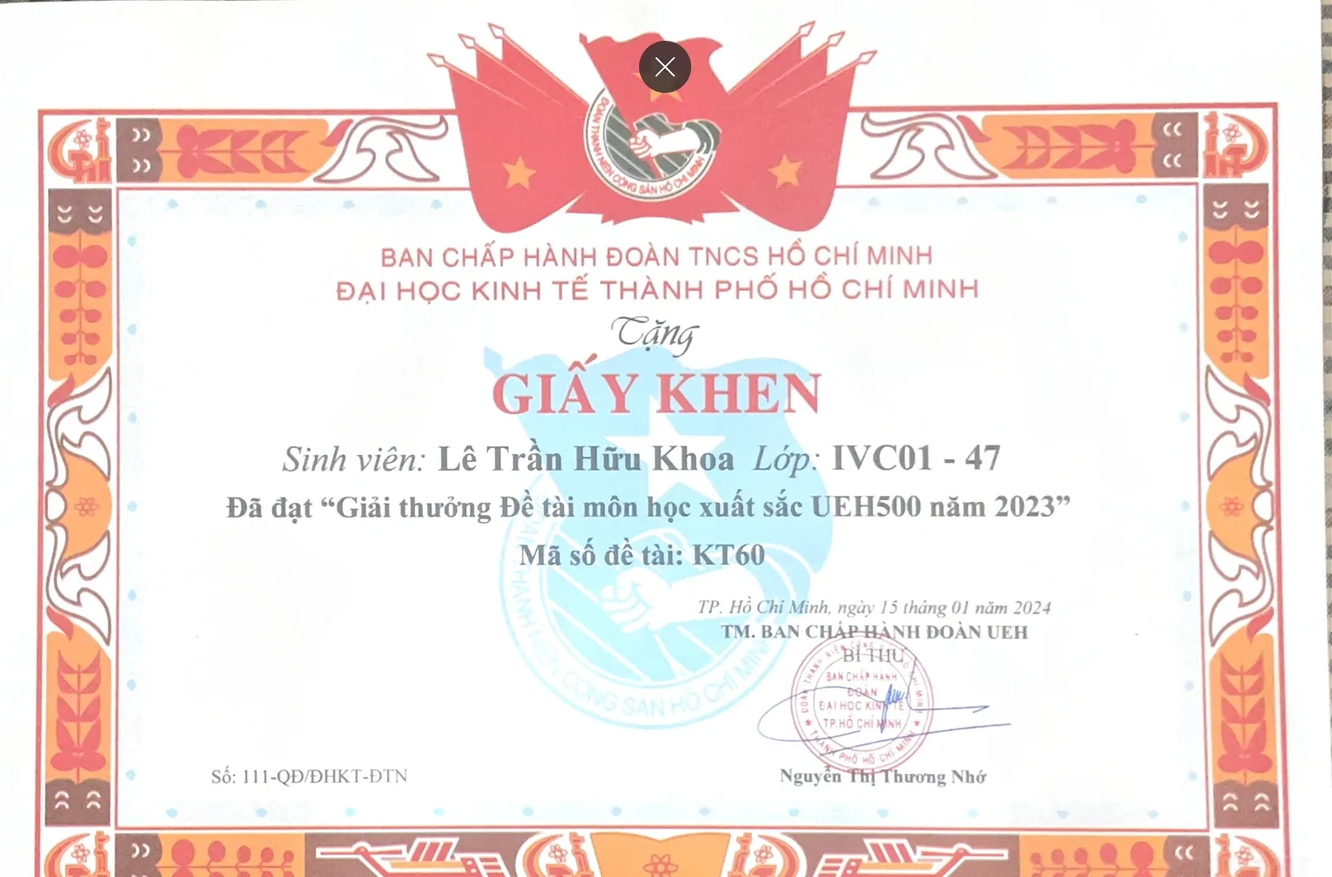
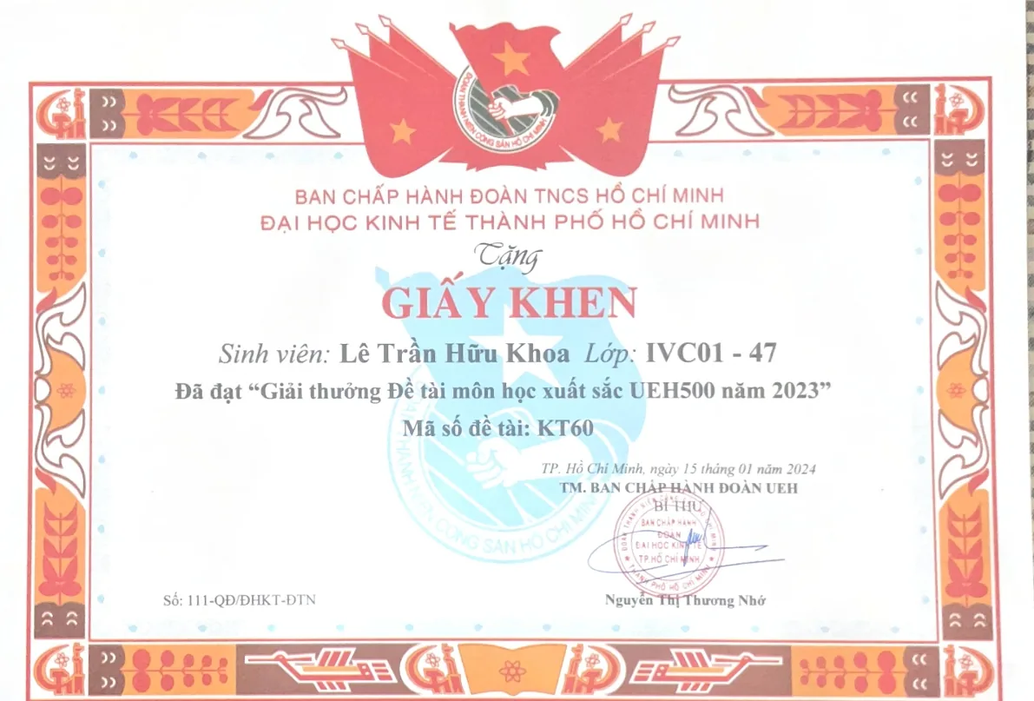
Add STAR details to every project popup
Each popup now has a context paragraph, What I did, Result with key
statistics, and What I gained, drawn from the project reports and UEH
articles. Retitles the Speaking Group Extended and Mini World Cup cards,
and refreshes the web copy of the new UEH500 certificate image.

Claude-Session: https://claude.ai/code/session_01WuN66PrgvGtPMv8t4hChoa

Changed region(s): [[0.0, 0.0, 0.9941, 1.0], [0.9941, 0.0, 1.0, 0.8364], [0.0, 0.0, 0.0311, 0.031]]

diff --git a/index.html b/index.html
@@ -84,6 +84,13 @@
     #project-modal { -webkit-backdrop-filter: blur(6px); backdrop-filter: blur(6px); }
     #pm-body .project-bullets { margin-top: 1.25rem; list-style: disc; padding-left: 1.5rem; color: #f5f5f4; line-height: 1.7; }
     #pm-body .project-bullets li + li { margin-top: .6rem; }
+    #pm-body .project-h { margin-top: 2rem; font-family: Inter, ui-sans-serif, system-ui, sans-serif; font-size: .75rem; font-weight: 600; letter-spacing: .16em; text-transform: uppercase; color: #B9D7C1; }
+    #pm-body .project-h + .project-bullets, #pm-body .project-h + .project-desc, #pm-body .project-h + .project-stats { margin-top: .75rem; }
+    #pm-body .project-stats { display: grid; grid-template-columns: repeat(auto-fit, minmax(150px, 1fr)); gap: .75rem; }
+    #pm-body .project-stats + .project-bullets { margin-top: 1rem; }
+    #pm-body .project-stats div { border-radius: .75rem; background: rgb(255 255 255 / .07); box-shadow: inset 0 0 0 1px rgb(255 255 255 / .14); padding: .9rem 1rem; }
+    #pm-body .project-stats b { display: block; font-family: Fraunces, Georgia, serif; font-size: 1.6rem; font-weight: 500; line-height: 1.15; color: #fff; }
+    #pm-body .project-stats span { display: block; margin-top: .3rem; font-size: .8rem; line-height: 1.4; color: #d6d3d1; }
     #pm-body .project-chips { margin-top: 1.75rem; display: flex; flex-wrap: wrap; gap: .5rem; }
     #pm-body .project-chips li { border-radius: 9999px; padding: .25rem .75rem; font-size: .75rem; font-weight: 500; color: #fff; background: rgb(255 255 255 / .1); box-shadow: inset 0 0 0 1px rgb(255 255 255 / .2); }
     .iv-nav { position: absolute; top: 50%; transform: translateY(-50%); height: 3rem; width: 3rem; border-radius: 9999px; font-size: 2.25rem; line-height: 1; color: #fff; background: rgb(255 255 255 / .12); }
@@ -260,13 +267,15 @@
                 <h4 class="project-card-title">Impact of Digital Literacy on Vietnamese Households' Clean Energy Consumption</h4>
                 <p class="project-card-line">Team study of digital literacy and clean energy use.</p>
                 <template class="project-details">
-                  <p class="project-desc">Presented at the 5th Asia Conference on Business and Economics, organized by the Journal of Asian Business and Economics Studies. I led a five-member team through a six-month empirical study.</p>
-                  <ul class="project-bullets">
-                    <li>Built binary and ratio-based measures from the Vietnam Household Living Standard Survey (2016 and 2018), covering about 9,300 households in all 63 provinces</li>
-                    <li>Logit and panel models found a significant positive association, with clean-energy households showing digital literacy rates 2.5 times higher</li>
-                    <li>Heterogeneity analysis showed a stronger urban effect linked to infrastructure gaps, leading to policy recommendations on digital infrastructure and digital literacy in education</li>
-                  </ul>
-                  <ul class="project-chips"><li>Stata</li><li>Logit</li><li>Panel data</li><li>Policy recommendations</li></ul>
+                  <p class="project-desc">Internet access in Vietnam has spread quickly, yet there was little household level evidence on whether being digitally literate changes the way families use energy. As lead author of a five-member team, I steered a six-month empirical study to measure that link, and the paper was selected from hundreds of submissions for presentation at ACBES 2023, the 5th Asia Conference on Business and Economic Studies hosted by UEH and the Journal of Asian Business and Economic Studies.</p>
+                  <h5 class="project-h">What I did</h5>
+                  <ul class="project-bullets"><li>Led the team from research design to the final paper, setting the timeline and dividing the literature, data and writing work</li><li>Built binary and ratio-based measures of digital literacy and clean energy use from the Vietnam Household Living Standard Survey (VHLSS) 2016 and 2018</li><li>Estimated logit and panel models in Stata, then ran heterogeneity analysis across urban and rural households and across income groups</li></ul>
+                  <h5 class="project-h">Result</h5>
+                  <div class="project-stats"><div><b>9,300</b><span>households analyzed</span></div><div><b>63</b><span>provinces covered</span></div><div><b>2.5×</b><span>higher digital literacy in clean energy households</span></div></div>
+                  <ul class="project-bullets"><li>Digital literacy was significantly and positively associated with clean energy use, and the effect held in both high and low income groups</li><li>The effect was stronger in cities than in rural areas, which pointed to gaps in rural digital infrastructure and clean energy supply</li><li>Presented at ACBES 2023 (16 to 18 August 2023), with policy recommendations on digital infrastructure and on teaching digital literacy at every level of formal education</li></ul>
+                  <h5 class="project-h">What I gained</h5>
+                  <p class="project-desc">Leading peers through a long empirical project taught me how to turn a broad question into a model that can actually be tested, and how to keep a team aligned when every member owns a different piece of the paper. Presenting to an international academic audience for the first time also made me far more careful about separating what the data shows from what I would like it to show, which is the habit I now bring to any policy recommendation.</p>
+                  <ul class="project-chips"><li>Stata</li><li>Logit</li><li>Panel data</li><li>VHLSS</li><li>Team leadership</li><li>Policy recommendations</li></ul>
                 </template>
               </article>
 
@@ -275,8 +284,15 @@
                 <h4 class="project-card-title">Climate, Biological and Economics, Health-Induced Shocks, Household Resource Allocation and Poverty Status: A Case of Vietnam</h4>
                 <p class="project-card-line">Award-winning study of shocks and household poverty.</p>
                 <template class="project-details">
-                  <p class="project-desc">Award-winning paper at the UEH500 competition, analyzing how climate, biological, economic and health-induced shocks relate to household resource allocation and poverty status in Vietnam, using Stata.</p>
-                  <ul class="project-chips"><li>Stata</li><li>Household poverty</li><li>Shocks</li><li>Vietnam</li></ul>
+                  <p class="project-desc">Vietnam is one of the most hazard-prone countries in the Pacific region, yet most evidence on climate shocks and poverty comes from macro level data that hides what happens inside households. For the Data Analytics &amp; Forecast course, I led a four-member team as lead author to test whether climate, biological, economic and health shocks push farm households into poverty, and through which channels that happens.</p>
+                  <h5 class="project-h">What I did</h5>
+                  <ul class="project-bullets"><li>Coordinated the team and the research design, from the literature review through to the policy implications</li><li>Cleaned a 2014 to 2016 panel from the Vietnam Access to Resources Household Survey (VARHS), keeping 5,122 shock-affected households across 12 provinces</li><li>Estimated logit benchmark models with household head, household and commune controls, followed by a mediation model on productive investment and precautionary savings and a heterogeneity analysis by income</li></ul>
+                  <h5 class="project-h">Result</h5>
+                  <div class="project-stats"><div><b>5,122</b><span>households analyzed</span></div><div><b>63%</b><span>of affected households had any coping strategy</span></div><div><b>48.7%</b><span>of households hit in Dak Lak, the worst province in 2016</span></div></div>
+                  <ul class="project-bullets"><li>Climate shocks significantly increased the likelihood of perceived poverty, with a logit coefficient of 0.598 on its own and 0.366 once all controls were added, and biological shocks showed the same effect</li><li>Female-headed households were markedly more vulnerable (coefficient 0.620), and the shocks worked partly by cutting productive investment and precautionary savings</li><li>Won the Excellent Course Research Award UEH500 2023 (topic KT60), conferred by the UEH Youth Union on 15 January 2024</li></ul>
+                  <h5 class="project-h">What I gained</h5>
+                  <p class="project-desc">This project moved me from describing poverty to explaining how it happens, and the mediation analysis showed me that the most useful policy insight often sits in the indirect channel rather than in the headline coefficient. Leading the team under a course deadline also taught me to cut scope wherever it did not serve the core question, so that the analysis we did finish was rigorous enough to win recognition.</p>
+                  <ul class="project-chips"><li>Stata</li><li>Logit</li><li>Mediation analysis</li><li>VARHS</li><li>Household poverty</li><li>Climate shocks</li></ul>
                 </template>
               </article>
 
@@ -285,12 +301,15 @@
                 <h4 class="project-card-title">Governance Readiness for Child Online Safety in Thailand's Digital Economy</h4>
                 <p class="project-card-line">Assessing Thailand's AI governance readiness for child online safety.</p>
                 <template class="project-details">
-                  <p class="project-desc">Examines how adequately Thailand's emerging AI governance framework addresses child online safety, particularly AI-generated abuse material and deepfake-enabled exploitation, and what a diagnostic assessment adapted to the Thai context reveals that a generic application of UNESCO's Readiness Assessment Methodology would not.</p>
-                  <ul class="project-bullets">
-                    <li>Policy document analysis of Thai and Vietnamese AI governance instruments against UNESCO RAM dimensions</li>
-                    <li>Eight to ten interviews in Bangkok, producing a comparative assessment of strengths, gaps and recommendations</li>
-                  </ul>
-                  <ul class="project-chips"><li>AI governance</li><li>Child protection</li><li>UNESCO RAM</li><li>Qualitative research</li></ul>
+                  <p class="project-desc">Generative AI has made abuse material and deepfake exploitation far easier to produce, while Thailand's AI governance framework is still taking shape. My AIT master's thesis asks how ready that framework is to protect children online, and what a diagnostic assessment adapted to the Thai context reveals that a generic application of UNESCO's Readiness Assessment Methodology (RAM) would not.</p>
+                  <h5 class="project-h">What I did</h5>
+                  <ul class="project-bullets"><li>Narrowed the topic from several candidates to a localized AI readiness assessment for Thailand, with Vietnam as a comparison case</li><li>Mapping Thai and Vietnamese AI governance instruments against the UNESCO RAM dimensions as the basis of the proposal</li><li>Designing eight to ten semi-structured interviews with stakeholders in Bangkok to test the document findings against practice</li></ul>
+                  <h5 class="project-h">Result</h5>
+                  <div class="project-stats"><div><b>Proposal</b><span>current stage</span></div><div><b>2</b><span>countries compared</span></div><div><b>8 to 10</b><span>planned interviews</span></div></div>
+                  <ul class="project-bullets"><li>The proposal is being drafted now, so there are no findings yet</li><li>The expected output is a comparative assessment of strengths, gaps and recommendations for child online safety within Thailand's AI governance</li></ul>
+                  <h5 class="project-h">What I gained</h5>
+                  <p class="project-desc">Moving from quantitative economics into qualitative policy research has been the steepest learning curve of my graduate study so far, and it has taught me that a global framework is only as useful as its fit with local institutions. The thesis also connects my analytics training directly to the issue I care about most, which is keeping children safe in digital spaces.</p>
+                  <ul class="project-chips"><li>AI governance</li><li>Child protection</li><li>UNESCO RAM</li><li>Qualitative research</li><li>Policy analysis</li></ul>
                 </template>
               </article>
 
@@ -313,28 +332,32 @@
                 <h4 class="project-card-title">UN SDGs Student Exchange Program: UEH × Tokyo Keizai University (Japan)</h4>
                 <p class="project-card-line">Coordinated the first Vietnam and Japan SDGs youth exchange.</p>
                 <template class="project-details">
-                  <p class="project-desc">Coordinated the Vietnam–Japan Youth Exchange Program 2023, the first iteration of the partnership, handling logistics and facilitation for a program built around the 17 UN Sustainable Development Goals and cultural exchange.</p>
-                  <ul class="project-bullets">
-                    <li>Designed and facilitated workshops on climate action, quality education and responsible consumption</li>
-                    <li>Across both 2023 pilots: 60+ participants from three countries, delivered on schedule, with roughly 100% participant satisfaction</li>
-                    <li>Established the operating model both universities adopted for later cohorts, turning one-off pilots into annual programs</li>
-                  </ul>
-                  <ul class="project-chips"><li>Project management</li><li>Cross-cultural communication</li><li>Logistics</li><li>SDGs</li></ul>
+                  <p class="project-desc">In August 2023, the year Vietnam and Japan marked 50 years of diplomatic relations, UEH's College of Economics, Law and Government (CELG) hosted students from Tokyo Keizai University for a 14-day program built around the 17 UN Sustainable Development Goals and cultural exchange. The program was run by students under CELG's guidance, and I was one of the organizers responsible for logistics and engagement.</p>
+                  <h5 class="project-h">What I did</h5>
+                  <ul class="project-bullets"><li>Coordinated logistics across two campuses, UEH Campus B in Ho Chi Minh City and UEH Vinh Long, from the welcome ceremony to the farewell</li><li>Designed and facilitated workshops on climate action, quality education and responsible consumption, alongside an academic day on gender inequality and the Vietnam and Japan International Student Summit, where mixed teams presented on the 17 SDGs</li><li>Supported the cultural program, including language exchange sessions, an ao dai and origami cultural day, and a field trip to the Cu Chi Tunnels</li></ul>
+                  <h5 class="project-h">Result</h5>
+                  <div class="project-stats"><div><b>14</b><span>days</span></div><div><b>60+</b><span>participants across the TKU and QUT programs</span></div><div><b>~100%</b><span>participant satisfaction</span></div></div>
+                  <ul class="project-bullets"><li>Delivered on schedule with roughly 100% participant satisfaction</li><li>Helped establish the operating model both universities adopted for later cohorts, turning a one-off pilot into an annual program</li><li>At the closing ceremony, a TKU student with a visual impairment said UEH students had helped him overcome his fear of going abroad and take part in most activities</li></ul>
+                  <h5 class="project-h">What I gained</h5>
+                  <p class="project-desc">Organizing for guests with different languages, expectations and needs taught me that inclusion has to be planned rather than improvised, and that small adjustments to pace and support decide whether everyone can really take part. It was also my first time coordinating a student team across two campuses, which is the closest I had come to running a real program from start to finish.</p>
+                  <ul class="project-chips"><li>Project management</li><li>Cross-cultural communication</li><li>Logistics</li><li>Workshop facilitation</li><li>SDGs</li></ul>
                 </template>
               </article>
 
               <article class="project-card" data-images="p_l_2_1 p_l_2_2 p_l_2_3 p_l_2_4 p_l_2_5 p_l_2_6">
                 <div class="project-card-head"><span class="badge badge-bark">Leadership</span><span>UEH CELG · Oct 2023</span></div>
                 <h4 class="project-card-title">UN SDGs Student Exchange Program: UEH × Queensland University of Technology (Australia)</h4>
-                <p class="project-card-line">Coordinated the first QUT and UEH exchange built around the 17 SDGs.</p>
+                <p class="project-card-line">Coordinated a seven-day QUT study tour across three cities.</p>
                 <template class="project-details">
-                  <p class="project-desc">Coordinated the QUT–UEH Exchange Program 2023, the first iteration of the partnership, handling logistics and facilitation for a program built around the 17 UN Sustainable Development Goals and cultural exchange.</p>
-                  <ul class="project-bullets">
-                    <li>Designed and facilitated workshops on climate action, quality education and responsible consumption</li>
-                    <li>Across both 2023 pilots: 60+ participants from three countries, delivered on schedule, with roughly 100% participant satisfaction</li>
-                    <li>Established the operating model both universities adopted for later cohorts, turning one-off pilots into annual programs</li>
-                  </ul>
-                  <ul class="project-chips"><li>Project management</li><li>Cross-cultural communication</li><li>Logistics</li><li>SDGs</li></ul>
+                  <p class="project-desc">UEH CELG and its Vinh Long Campus hosted a seven-day study tour for students from Queensland University of Technology (QUT), designed both as a course for the Australian students and as practical learning in Vietnam. I was one of the organizers responsible for logistics and engagement.</p>
+                  <h5 class="project-h">What I did</h5>
+                  <ul class="project-bullets"><li>Coordinated an itinerary across Ho Chi Minh City, Vinh Long and Can Tho, from Independence Palace and the War Remnants Museum to An Binh islet and the Cai Rang floating market</li><li>Supported the UEH and QUT Professional Workshop on the business of sustainability and the circular economy in Vietnam, which featured three expert presentations</li><li>Designed and facilitated workshops on climate action, quality education and responsible consumption, together with cultural exchanges at UEH Vinh Long Campus</li></ul>
+                  <h5 class="project-h">Result</h5>
+                  <div class="project-stats"><div><b>7</b><span>days</span></div><div><b>3</b><span>cities</span></div><div><b>60+</b><span>participants across the TKU and QUT programs</span></div></div>
+                  <ul class="project-bullets"><li>Delivered on schedule with roughly 100% participant satisfaction</li><li>Helped establish the operating model both universities adopted for later cohorts, so the tour could run as an annual program</li></ul>
+                  <h5 class="project-h">What I gained</h5>
+                  <p class="project-desc">Running a study tour that doubled as a course for QUT taught me to plan logistics around learning outcomes, because a rushed visit or a late bus costs students understanding and not only time. Hosting the circular economy workshop also showed me how sustainability research moves out of the lecture hall and into real business and policy conversations.</p>
+                  <ul class="project-chips"><li>Project management</li><li>Cross-cultural communication</li><li>Logistics</li><li>Circular economy</li><li>SDGs</li></ul>
                 </template>
               </article>
 
@@ -343,18 +366,32 @@
                 <h4 class="project-card-title">UEH × Osaka Sangyo University (Japan) Student Exchange</h4>
                 <p class="project-card-line">Joined visiting Osaka Sangyo University students as a companion.</p>
                 <template class="project-details">
-                  <p class="project-desc">Joined the Vietnam Study Program 2023 (26 October to 8 November) as a companion to visiting students from Osaka Sangyo University, taking part in the cultural exchange from the participant side.</p>
-                  <ul class="project-chips"><li>Cultural exchange</li><li>Cross-cultural communication</li></ul>
+                  <p class="project-desc">UEH hosted students from Osaka Sangyo University (Japan) for the Vietnam Study Program 2023, a two-week program running from 26 October to 8 November. I joined as a companion, one of the UEH students paired with the Japanese visitors, which put me on the participant side of an exchange for the first time.</p>
+                  <h5 class="project-h">What I did</h5>
+                  <ul class="project-bullets"><li>Accompanied the visiting students through the program's academic and cultural activities, helping them find their way around campus and the city</li><li>Used English to bridge conversations and help the group understand Vietnamese student life and culture</li></ul>
+                  <h5 class="project-h">Result</h5>
+                  <div class="project-stats"><div><b>14</b><span>days</span></div><div><b>2</b><span>countries</span></div></div>
+                  <ul class="project-bullets"><li>Completed the full program and received a certificate of participation from UEH's International Relations Office</li></ul>
+                  <h5 class="project-h">What I gained</h5>
+                  <p class="project-desc">Having organized an exchange myself, being a companion let me see a program from the guest's point of view, and that changed how I think about pacing and support whenever I organize. It also gave me everyday practice in cross-cultural communication outside a formal setting, where most real connection between students actually happens.</p>
+                  <ul class="project-chips"><li>Cultural exchange</li><li>Cross-cultural communication</li><li>English</li></ul>
                 </template>
               </article>
 
               <article class="project-card" data-images="p_l_4_1 p_l_4_2 p_l_4_3">
-                <div class="project-card-head"><span class="badge badge-bark">Leadership</span><span>UEH student club · Jun–Dec 2022</span></div>
-                <h4 class="project-card-title">Extended BELL Club: Bi-weekly English Speaking Group</h4>
-                <p class="project-card-line">Ran a bi-weekly English speaking group for UEH students.</p>
+                <div class="project-card-head"><span class="badge badge-bark">Leadership</span><span>UEH · Jun–Dec 2022</span></div>
+                <h4 class="project-card-title">Speaking Group Extended: Bi-weekly English Speaking Sessions</h4>
+                <p class="project-card-line">Co-organized bi-weekly English speaking sessions at UEH.</p>
                 <template class="project-details">
-                  <p class="project-desc">Ran a bi-weekly program at UEH that encouraged students to practice speaking English with one another.</p>
-                  <ul class="project-chips"><li>Community building</li><li>English language</li><li>Student engagement</li></ul>
+                  <p class="project-desc">Many UEH students could read English well but rarely had a relaxed space to speak it. Speaking Group Extended, run with UEH's BELL Club, offered bi-weekly themed sessions where students practiced speaking with one another, and I was one of its organizers from June to December 2022.</p>
+                  <h5 class="project-h">What I did</h5>
+                  <ul class="project-bullets"><li>Co-organized around 12 bi-weekly sessions, planning the themes and activities, including a Halloween edition built around a game theme</li><li>Facilitated group conversations and games during sessions so that speaking time was shared across participants</li></ul>
+                  <h5 class="project-h">Result</h5>
+                  <div class="project-stats"><div><b>~12</b><span>sessions</span></div><div><b>20 to 30</b><span>students per session</span></div><div><b>240+</b><span>student attendances</span></div></div>
+                  <ul class="project-bullets"><li>Kept the sessions running every two weeks for about six months, with 20 to 30 students attending each one</li></ul>
+                  <h5 class="project-h">What I gained</h5>
+                  <p class="project-desc">Organizing a recurring program taught me that consistency matters more than any single great event, because students come back only when they trust the next session will happen and be worth their time. It was also my first experience of leading peers in a volunteer setting, where motivation has to be earned rather than assigned.</p>
+                  <ul class="project-chips"><li>Community building</li><li>Event planning</li><li>English language</li><li>Student engagement</li></ul>
                 </template>
               </article>
 
@@ -377,12 +414,15 @@
                 <h4 class="project-card-title">Vietnam Real Estate Market Report: National, Ho Chi Minh City and Industrial Property</h4>
                 <p class="project-card-line">Vietnam's property market, from national trends to industrial parks.</p>
                 <template class="project-details">
-                  <p class="project-desc">Course report analyzing Vietnam's real estate market from the national picture to Ho Chi Minh City, with a segment study of industrial property covering rents, occupancy and FDI.</p>
-                  <ul class="project-bullets">
-                    <li>Compared industrial park land rents of USD 140 to 300 per m² in Ho Chi Minh City, at 95% occupancy, with USD 100 to 250 in neighboring Binh Duong</li>
-                    <li>Concluded that land scarcity is pushing new supply outward and toward multi-story factories</li>
-                  </ul>
-                  <ul class="project-chips"><li>Market analysis</li><li>Real estate</li><li>Industrial property</li></ul>
+                  <p class="project-desc">By 2023 Vietnam's property market had slowed after years of rapid growth, while industrial property in the south kept drawing investors. For the Principles of Valuation course, I wrote an individual 28-page market report that moves from the national picture to Ho Chi Minh City and then into a segment study of industrial property.</p>
+                  <h5 class="project-h">What I did</h5>
+                  <ul class="project-bullets"><li>Analyzed national market size, GDP contribution and FDI flows using data from the General Statistics Office, Mordor Intelligence and the Ho Chi Minh City Industrial and Export Processing Zones Authority (Hepza)</li><li>Assessed Ho Chi Minh City through its economic conditions, demographics, supply and demand, infrastructure and government policy</li><li>Studied industrial property rents, occupancy and capital flows, and compared Ho Chi Minh City with neighboring Binh Duong</li></ul>
+                  <h5 class="project-h">Result</h5>
+                  <div class="project-stats"><div><b>3.46%</b><span>real estate share of GDP in 2022</span></div><div><b>95%</b><span>industrial park occupancy in HCMC</span></div><div><b>172%</b><span>of the 2023 investment target reached by HCMC industrial parks</span></div></div>
+                  <ul class="project-bullets"><li>Real estate contributed 3.46% of GDP in 2022, more than VND 328,000 billion, and the residential market was projected to grow from USD 22.44 billion in 2023 to USD 40.53 billion by 2028</li><li>Industrial land in Ho Chi Minh City rented for USD 140 to 300 per m², compared with USD 100 to 250 in Binh Duong</li><li>Concluded that land scarcity is pushing new supply outward and upward, and recommended industrial park optimization, high-rise factories and legal reform of the Land and Housing Laws</li></ul>
+                  <h5 class="project-h">What I gained</h5>
+                  <p class="project-desc">Writing the report alone meant I had to own every number, which taught me to check statistics against more than one source before trusting them. It also showed me that valuing property depends as much on reading policy and infrastructure as on reading prices.</p>
+                  <ul class="project-chips"><li>Market analysis</li><li>Real estate</li><li>Industrial property</li><li>Valuation</li></ul>
                 </template>
               </article>
 
@@ -391,13 +431,15 @@
                 <h4 class="project-card-title">Optimal Stock Portfolio: Simulation, Optimization and Backtest</h4>
                 <p class="project-card-line">Built and backtested a VND 500 million stock and T-bill portfolio.</p>
                 <template class="project-details">
-                  <p class="project-desc">Built and tested a stock and treasury bill portfolio for a VND 500 million capital base, starting from macro, industry and company analysis of six listed Vietnamese firms.</p>
-                  <ul class="project-bullets">
-                    <li>Simulated 20,000 weight combinations in Excel and used Solver to find the minimum variance and Sharpe-maximizing portfolios</li>
-                    <li>Allocated 83.68% to five stocks and 16.32% to treasury bills against a 20% annual return target</li>
-                    <li>A one-year in-sample backtest returned 20.06% (VND 100.3 million) while the VN-Index fell about 31%</li>
-                  </ul>
-                  <ul class="project-chips"><li>Excel</li><li>Solver</li><li>Portfolio optimization</li><li>Sharpe ratio</li></ul>
+                  <p class="project-desc">For the Investment Analysis and Management course, our team of five had to build a portfolio for a VND 500 million capital base and test it over a real year of market data. I managed the team, led the data analysis and wrote the Results and Discussion section.</p>
+                  <h5 class="project-h">What I did</h5>
+                  <ul class="project-bullets"><li>Managed the timeline and task allocation for the five members</li><li>Screened six listed Vietnamese firms through macro, industry and company analysis, then selected five stocks: SAB, SCD, ANV, VSH and SBA</li><li>Ran the analysis, simulating 20,000 weight combinations in Excel and using Solver to find the minimum variance and Sharpe-maximizing portfolios, then exported the results and charts</li></ul>
+                  <h5 class="project-h">Result</h5>
+                  <div class="project-stats"><div><b>20.06%</b><span>one-year return</span></div><div><b>VND 100.3M</b><span>profit on VND 500M</span></div><div><b>−31%</b><span>VN-Index over the same period</span></div></div>
+                  <ul class="project-bullets"><li>Allocated 83.68% to the five stocks and 16.32% to treasury bills against a 20% annual return target</li><li>Held from 1 March 2022 to 28 February 2023, the portfolio returned 20.06% while the VN-Index fell about 31%</li><li>VSH led with a 43.07% gain and SBA added 30.1%, while SCD lost 11.11%</li></ul>
+                  <h5 class="project-h">What I gained</h5>
+                  <p class="project-desc">Watching one holding lose 11% while the portfolio still beat its target made diversification real to me in a way the formulas alone never did. Managing four teammates on a tight deadline also taught me to start the modelling and the writing in parallel, so the analysis was never waiting on a draft.</p>
+                  <ul class="project-chips"><li>Excel</li><li>Solver</li><li>Portfolio optimization</li><li>Sharpe ratio</li><li>Team leadership</li></ul>
                 </template>
               </article>
 
@@ -406,18 +448,32 @@
                 <h4 class="project-card-title">ESG Scores and Financial Performance: Do Companies with Higher ESG Scores Perform Better Financially?</h4>
                 <p class="project-card-line">Testing in Tableau whether higher ESG means better returns.</p>
                 <template class="project-details">
-                  <p class="project-desc">Final project for the course "From Data to Decisions: Mastering Data Mining, Analysis and Predictive Analytics in Business," examining the link between ESG scores and financial performance with Tableau.</p>
-                  <ul class="project-chips"><li>Tableau</li><li>ESG</li><li>Financial performance</li></ul>
+                  <p class="project-desc">Managers increasingly treat ESG as a signal of long-term value, but have little clear evidence on which pillars actually drive returns. For AIT's course From Data to Decisions, our team of four examined whether firms with higher ESG scores perform better financially, using a panel of 1,000 firms from 2015 to 2025. I managed the team and led the data analysis.</p>
+                  <h5 class="project-h">What I did</h5>
+                  <ul class="project-bullets"><li>Managed the team timeline and the split of tasks</li><li>Cleaned the panel in Stata, winsorizing profit margins at the 1st and 99th percentiles, and ran fixed effects regressions on each ESG pillar</li><li>Built Tableau views with Level of Detail expressions to compare ESG Leaders and Laggards by industry and region</li></ul>
+                  <h5 class="project-h">Result</h5>
+                  <div class="project-stats"><div><b>1,000</b><span>firms over 10 years</span></div><div><b>13% vs 10.2%</b><span>profit margin, Leaders vs Laggards</span></div><div><b>β = 0.035</b><span>Governance, the only significant pillar</span></div></div>
+                  <ul class="project-bullets"><li>ESG Leaders averaged nearly 13% profit margins against 10.2% for Laggards, and higher ESG scores were significantly linked to larger market capitalization</li><li>Governance was the only pillar that significantly drove profitability (p &lt; 0.01), while the payoff was largest in asset-light sectors such as Technology, where Leaders reached 19% margins</li><li>Recommended that executives put Governance first, tailor ESG investment to each sector and track environmental progress through intensity metrics</li></ul>
+                  <h5 class="project-h">What I gained</h5>
+                  <p class="project-desc">The project taught me to keep correlation and causation clearly apart, since survivorship bias and unverified ratings limit what any ESG dataset can prove. Pairing Stata for inference with Tableau for storytelling also showed me how much a finding gains when decision makers can see it rather than just read it.</p>
+                  <ul class="project-chips"><li>Stata</li><li>Tableau</li><li>Fixed effects</li><li>ESG</li><li>Financial performance</li></ul>
                 </template>
               </article>
 
               <article class="project-card" data-images="p_a_4_1">
                 <div class="project-card-head"><span class="badge badge-leaf">Data Analysis</span><span>AIT · Jul 2026</span></div>
-                <h4 class="project-card-title">Business Intelligence Dashboards in Power BI</h4>
-                <p class="project-card-line">Interactive Power BI dashboards built for a data analytics course.</p>
+                <h4 class="project-card-title">Mini World Cup Dashboard with MySQL and Power BI</h4>
+                <p class="project-card-line">An interactive dashboard of 964 World Cup matches.</p>
                 <template class="project-details">
-                  <p class="project-desc">Course project building interactive business dashboards in Power BI as part of a data analytics essentials course.</p>
-                  <ul class="project-chips"><li>Power BI</li><li>Dashboards</li><li>Business intelligence</li></ul>
+                  <p class="project-desc">The Data Analytics Essentials course at AIT was taught by Maheshwor Shrestha, a doctoral candidate at the AIT School of Management who has worked as Lead Data Architect at CPAxtra and as a Business Intelligence Consultant. For the course project, I built an end-to-end dashboard on the history of the World Cup.</p>
+                  <h5 class="project-h">What I did</h5>
+                  <ul class="project-bullets"><li>Prepared and queried the match data in MySQL</li><li>Built an interactive Power BI dashboard with KPI cards, a year range slider, goals by team and by year, and a map of results by country</li><li>Added a short written insight panel so readers know what question each visual answers</li></ul>
+                  <h5 class="project-h">Result</h5>
+                  <div class="project-stats"><div><b>964</b><span>matches</span></div><div><b>22</b><span>tournaments</span></div><div><b>55.19%</b><span>home win rate</span></div></div>
+                  <ul class="project-bullets"><li>Summarized 964 matches and about 2,720 goals across 22 tournaments in a single interactive page</li></ul>
+                  <h5 class="project-h">What I gained</h5>
+                  <p class="project-desc">This was my first hands-on project using MySQL and Power BI together, and learning from someone who builds data architecture in industry showed me that a good dashboard starts with a clean data model rather than with charts.</p>
+                  <ul class="project-chips"><li>MySQL</li><li>Power BI</li><li>Dashboards</li><li>Business intelligence</li></ul>
                 </template>
               </article>
 
